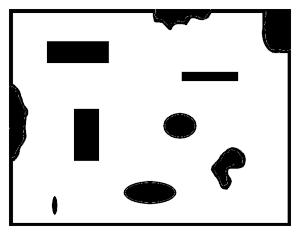
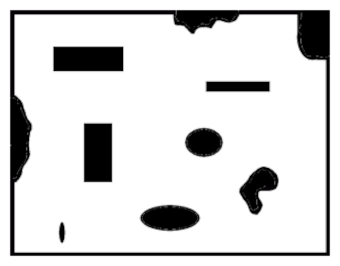
bigger map, obstacles random size

diff --git a/task_generator/task_generator/obstacles_manager.py b/task_generator/task_generator/obstacles_manager.py
@@ -141,7 +141,7 @@ class ObstaclesManager:
         rospy.loginfo(
             f"Registed {num_dynamic_obstalces} dynamic obstacles and {num_obstacles-num_dynamic_obstalces} static obstacles")
 
-    def register_random_dynamic_obstacles(self, num_obstacles: int, linear_velocity=0.3, angular_velocity_max=math.pi/6, min_obstacle_radius=0.5, max_obstacle_radius=0.5):
+    def register_random_dynamic_obstacles(self, num_obstacles: int, linear_velocity=0.3, angular_velocity_max=math.pi/6, min_obstacle_radius=0.1, max_obstacle_radius=0.3):
         """register dynamic obstacles with circle shape.
 
         Args:
@@ -160,7 +160,7 @@ class ObstaclesManager:
             self.register_obstacles(1, model_path)
             os.remove(model_path)
 
-    def register_random_static_obstacles(self, num_obstacles: int, num_vertices_min=3, num_vertices_max=6, min_obstacle_radius=0.5, max_obstacle_radius=2):
+    def register_random_static_obstacles(self, num_obstacles: int, num_vertices_min=2, num_vertices_max=5, min_obstacle_radius=0.5, max_obstacle_radius=2):
         """register static obstacles with polygon shape.
 
         Args:
